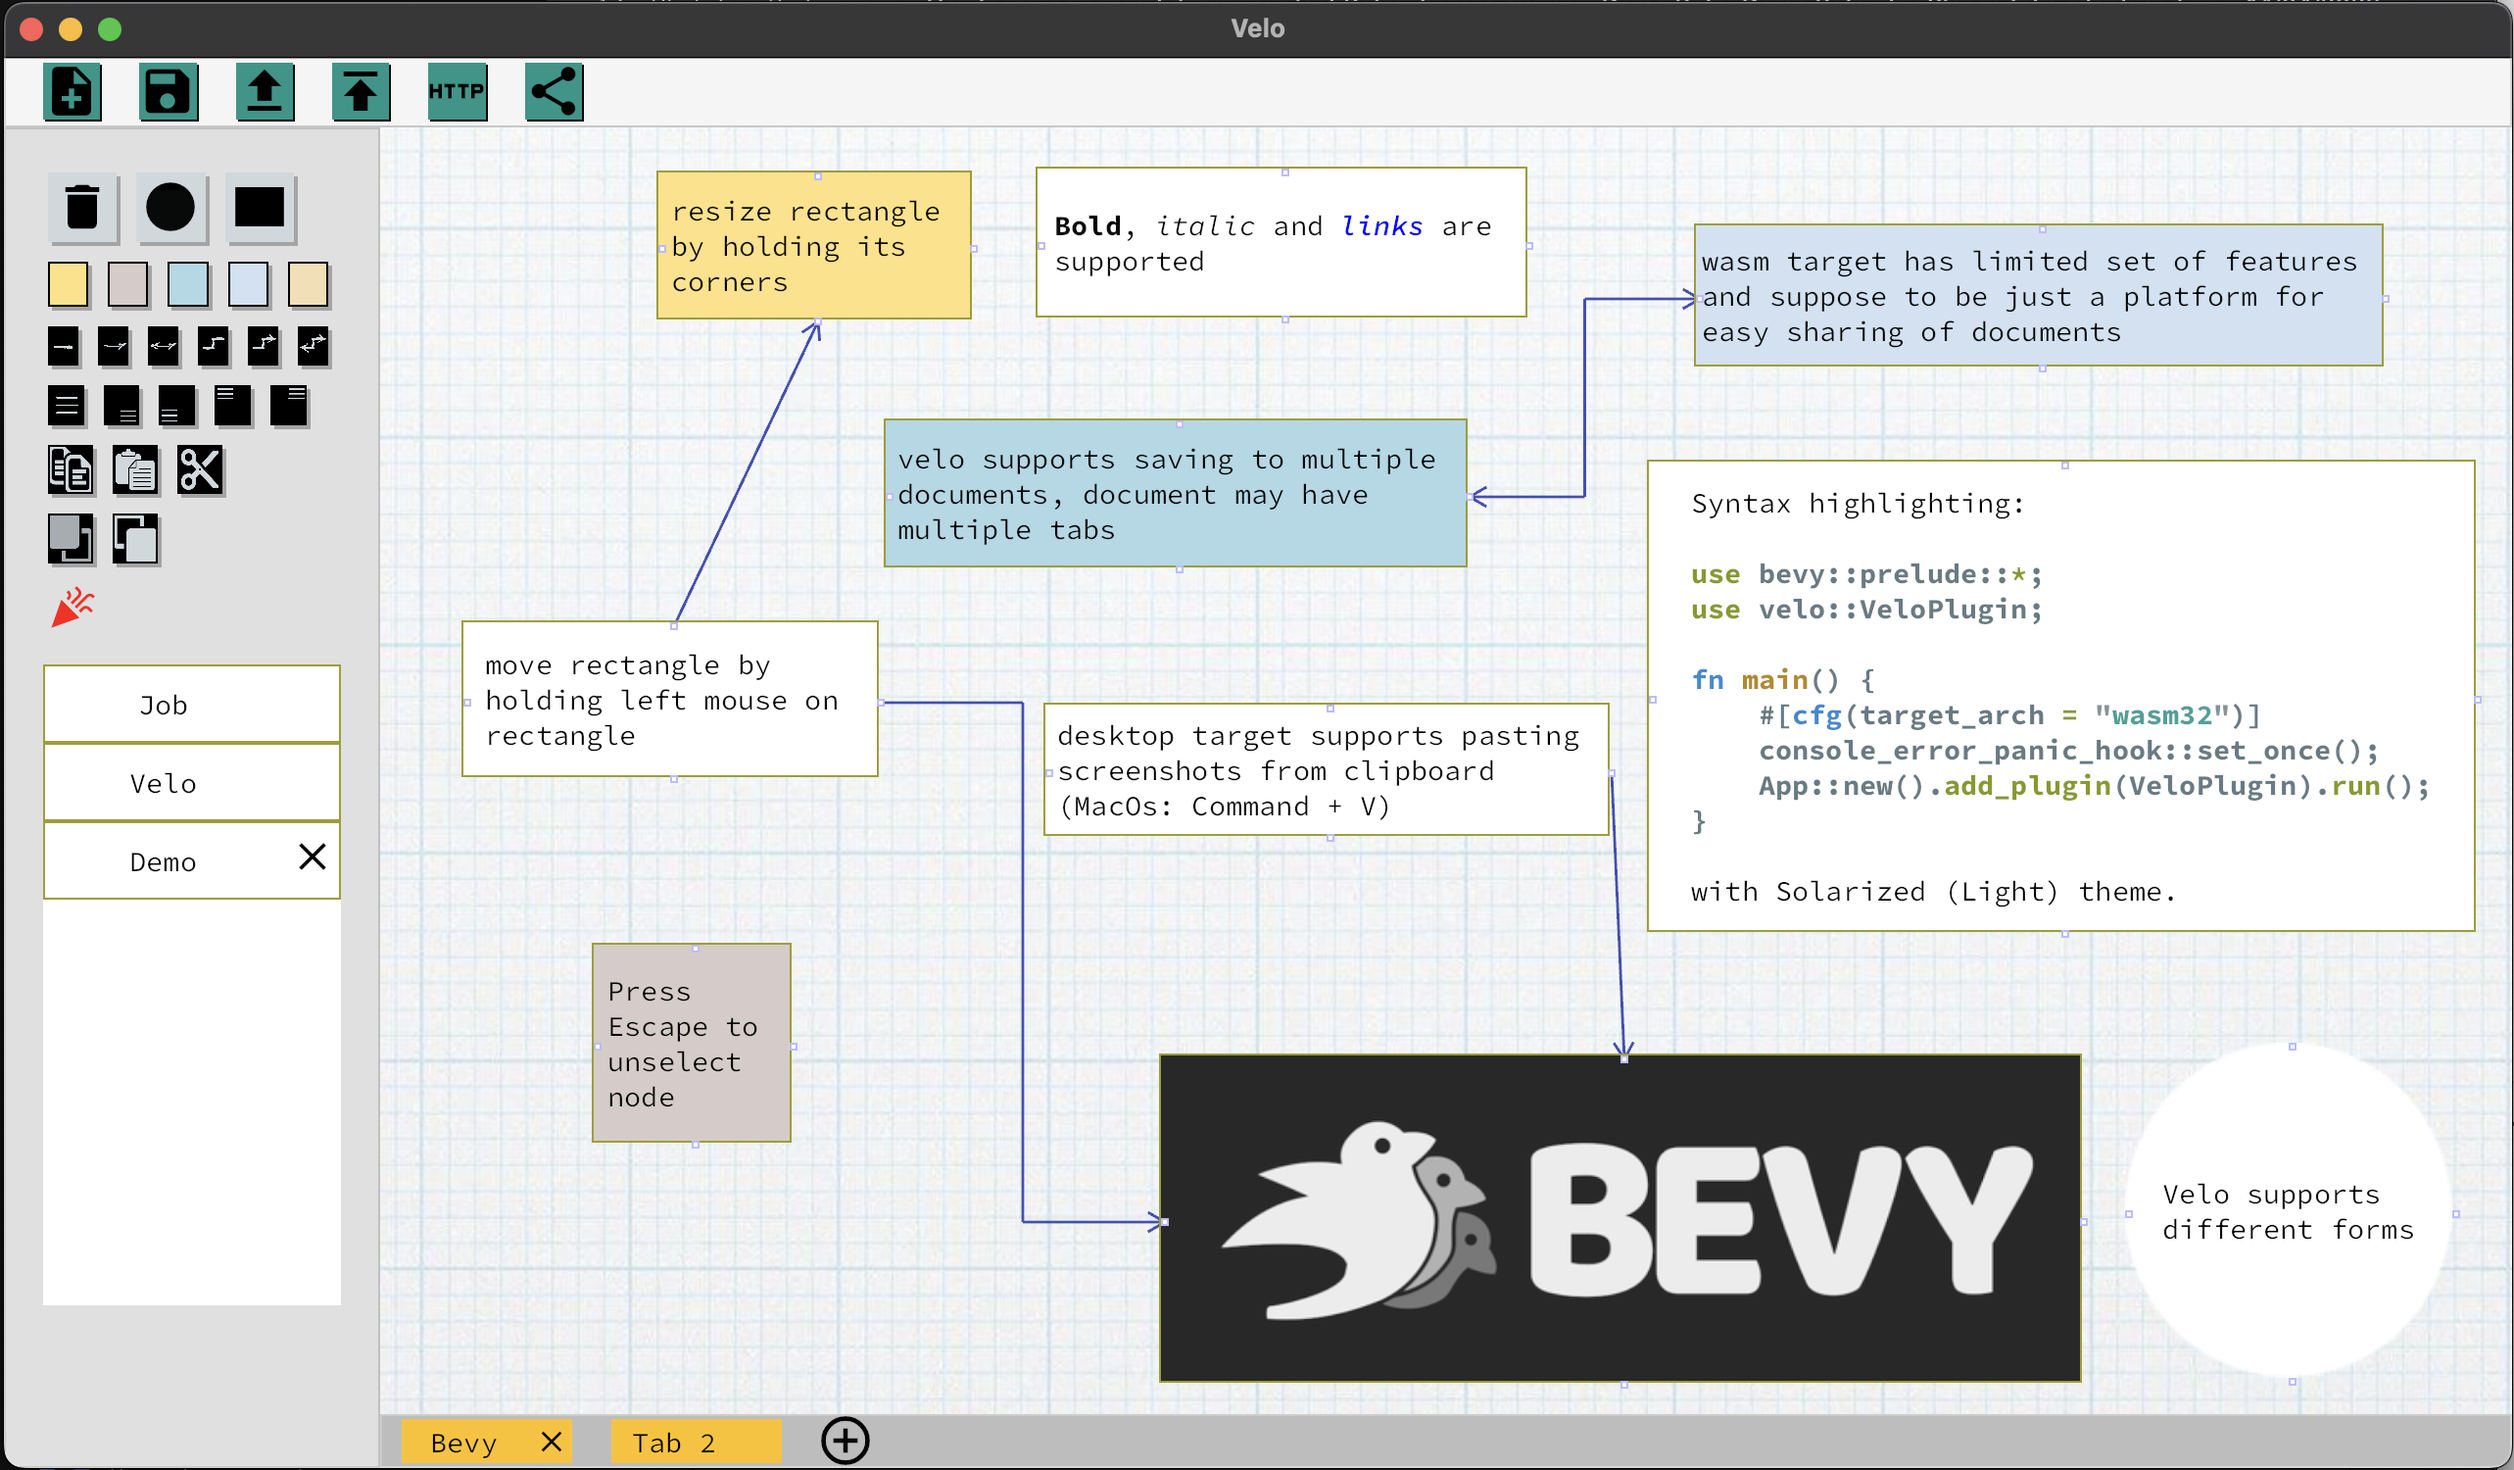
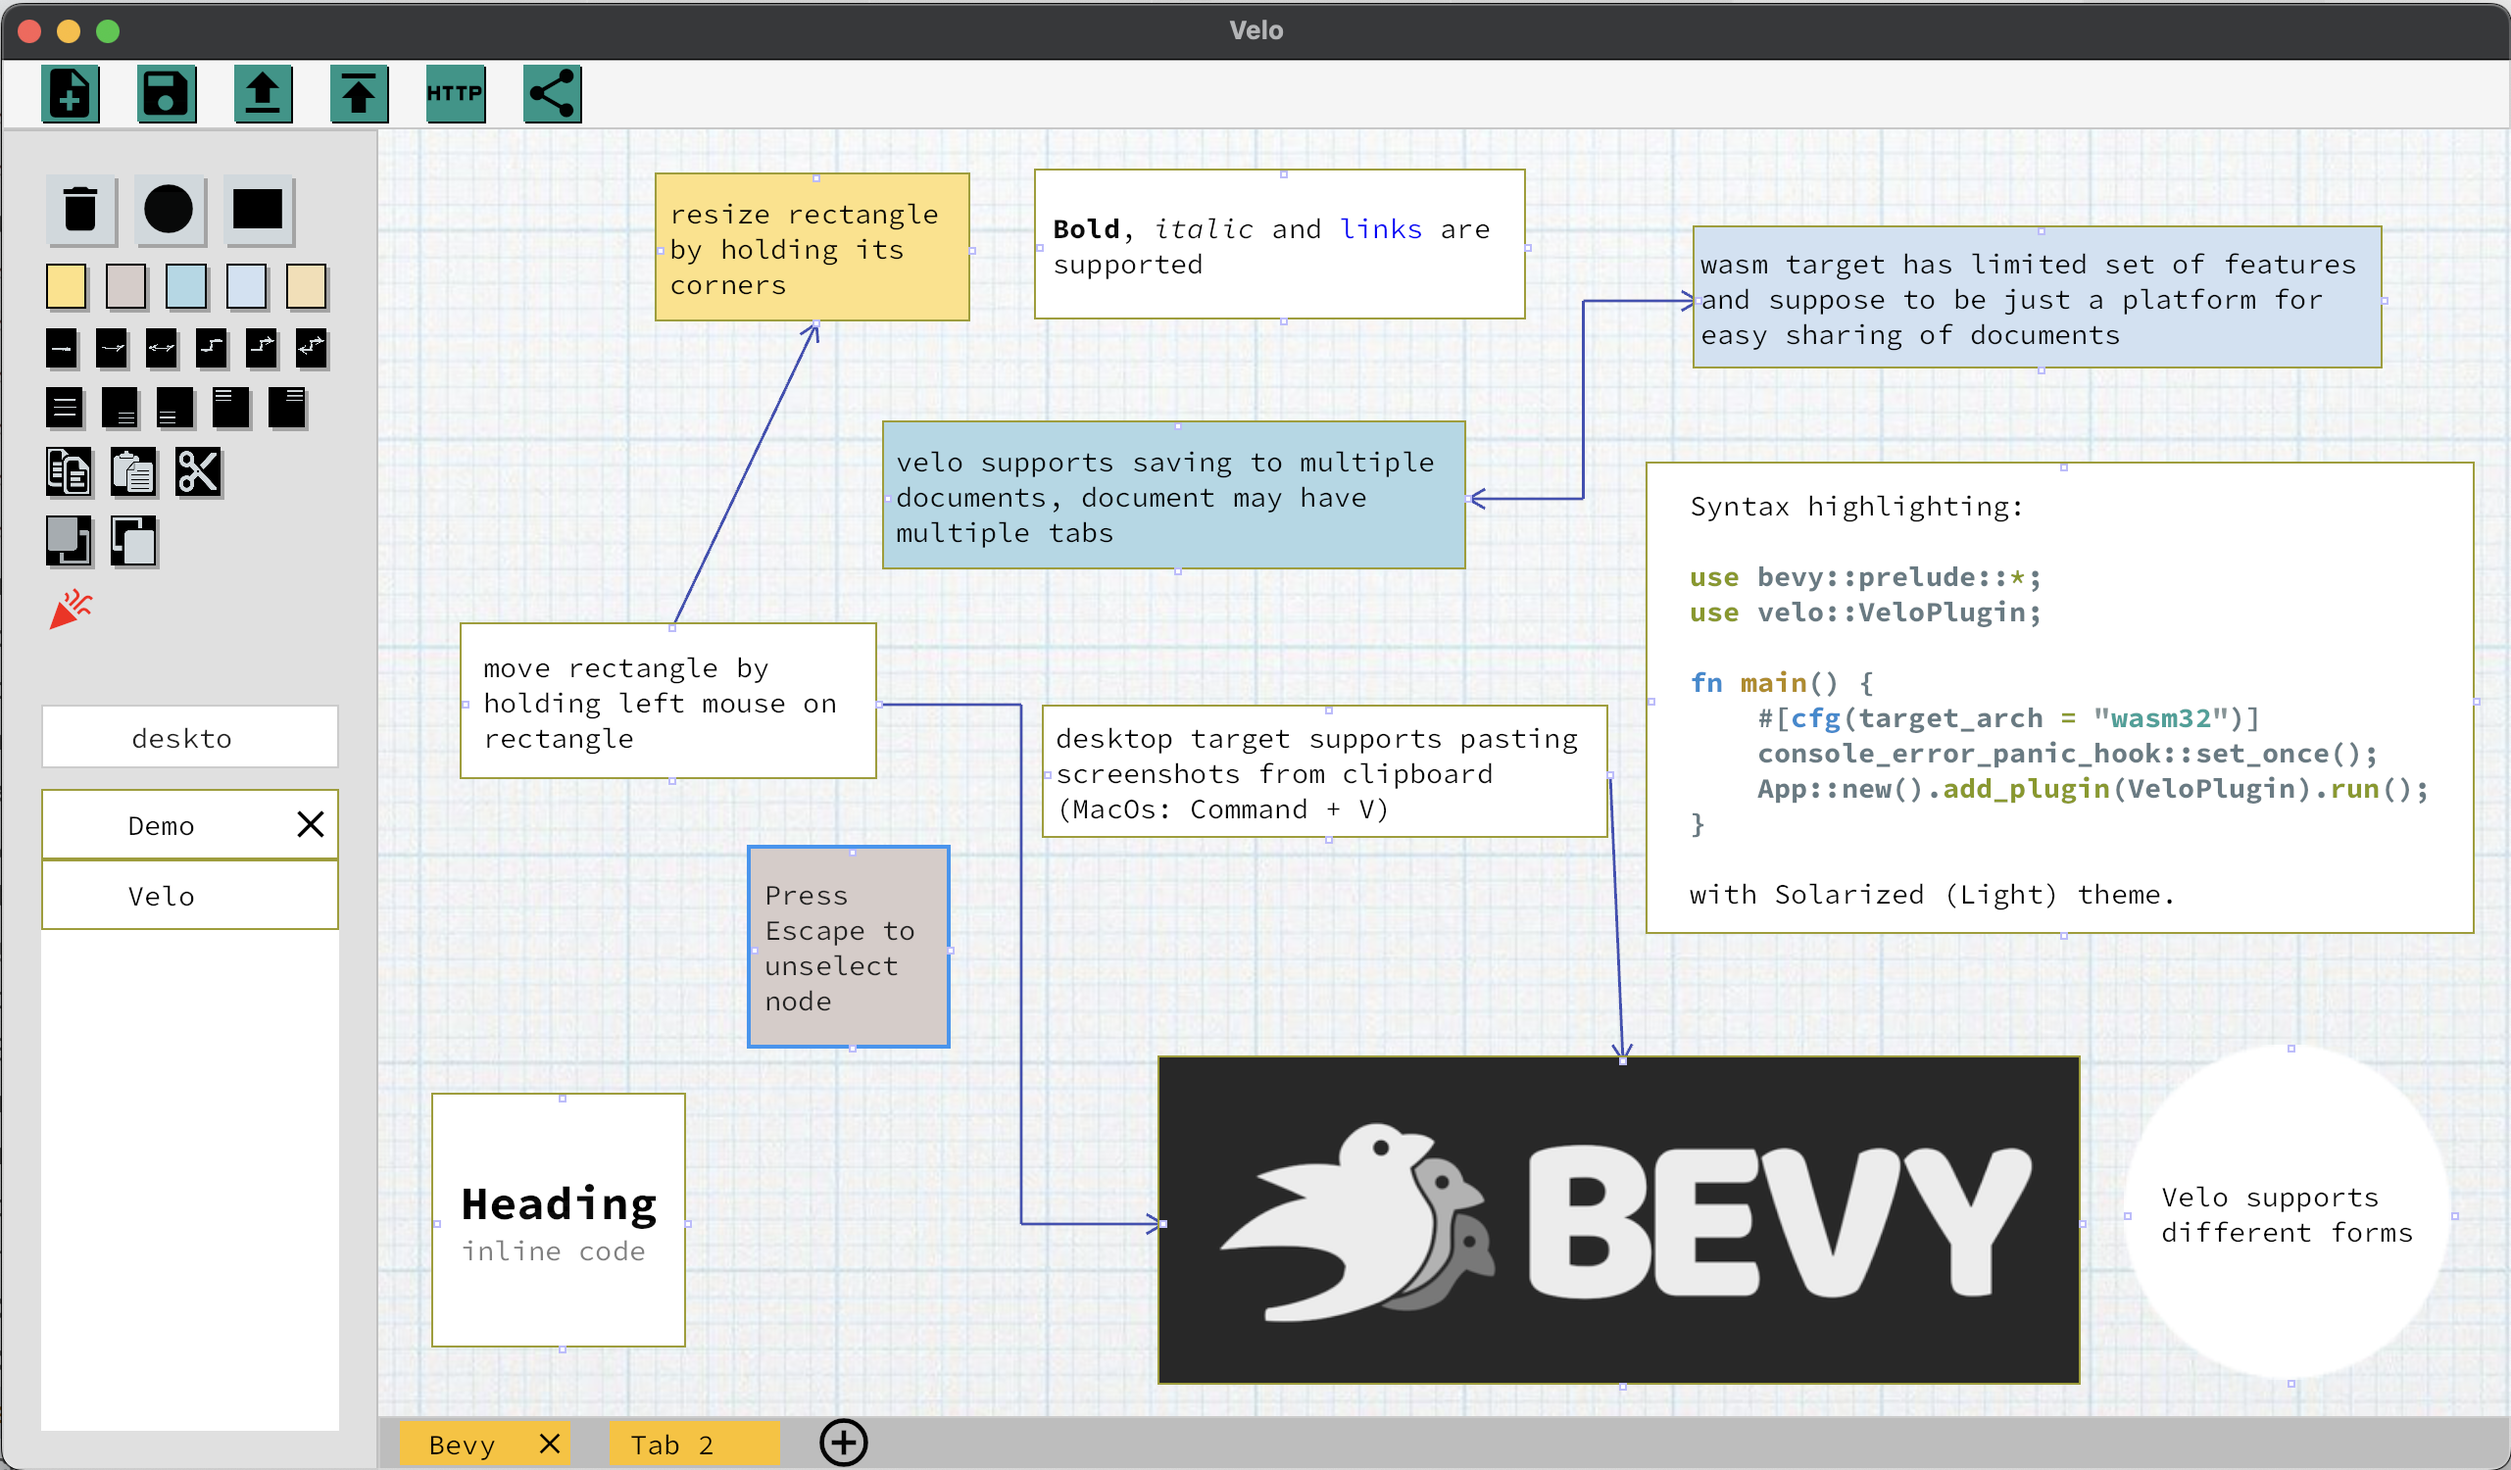
update readme

diff --git a/Readme.md b/Readme.md
@@ -10,7 +10,7 @@ WebAssembly (wasm) target has a limited feature set. wasm target is best
 suited for quick document sharing and editing, currently only landscape
 mode is supported (tested on Chrome):
 
-[<https://staffengineer.github.io/velo?document=https://gist.githubusercontent.com/StaffEngineer/3dc607976ea4ed695662a8fe9e3281a3/raw/8c8994c7b3051b7b8db58e20de2b6ab2d791b89d/velo.json>](https://staffengineer.github.io/velo?document=https://gist.githubusercontent.com/StaffEngineer/3dc607976ea4ed695662a8fe9e3281a3/raw/8c8994c7b3051b7b8db58e20de2b6ab2d791b89d/velo.json)
+[<https://staffengineer.github.io/velo?document=https://gist.githubusercontent.com/StaffEngineer/a78e7380750c052bff78b8e27c9545d3/raw/537c6f57d5257b32940e3fbcf2f4bc6386cdbc7e/velo.json>](https://staffengineer.github.io/velo?document=https://gist.githubusercontent.com/StaffEngineer/a78e7380750c052bff78b8e27c9545d3/raw/537c6f57d5257b32940e3fbcf2f4bc6386cdbc7e/velo.json)
 
 ## Inspiration
 
@@ -28,7 +28,7 @@ enjoyable project to work on.
 -   node resizing
 -   node repositioning
 -   wrapped text inside nodes
--   paste screenshot from clipboard [native target only]
+-   paste screenshot from clipboard [native target only 🖥] 
 -   connect nodes with arrows
 -   make app snapshot in memory and load from it (MacOs: Command + s\[l\])
 -   save app state to db and load from it
@@ -40,7 +40,7 @@ enjoyable project to work on.
 -   load app state from url
 -   ability to create sharable url of the document using \"Share
     Document\" button (**.velo.toml** should be created in user home
-    directory containing GitHub access token with \"gist\" scope) [native target only]:
+    directory containing GitHub access token with \"gist\" scope) [native target only 🖥]:
 
    ```toml
    github_access_token = "<github_access_token>"
@@ -50,7 +50,10 @@ enjoyable project to work on.
   - italic/bold text style
   - links
   - syntax highlighting
-- particles effect [native target only]
+  - headings
+  - inline code
+- particles effect [native target only 🖥]
+- filter document by text in nodes [native target only 🖥]
 
 ## Run
 
